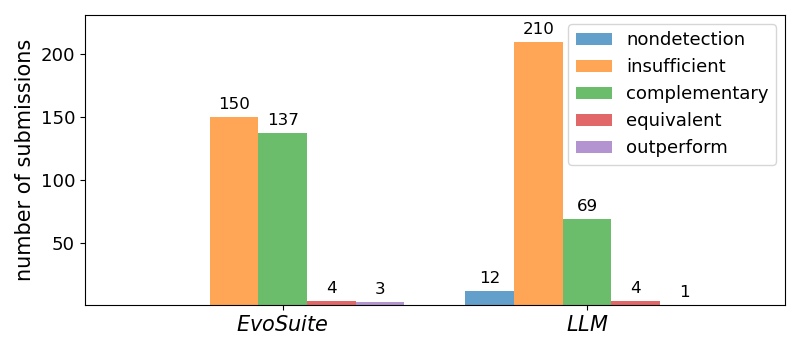
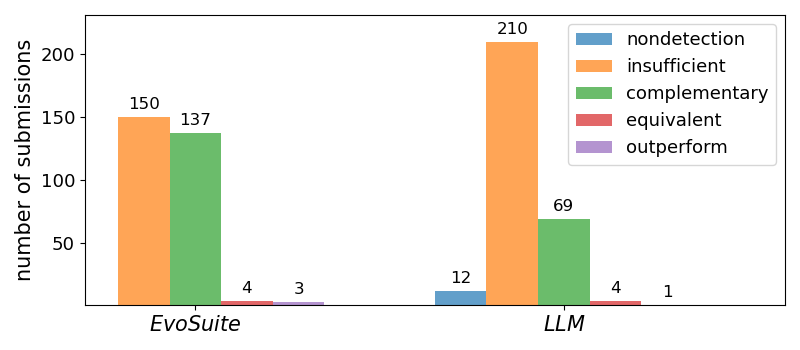
RQ1 figure reduce blank space

Changed region(s): [[0.125, 0.2571, 0.5, 0.9429], [0.5312, 0.0571, 0.8438, 0.9429], [0.4688, 0.8, 0.5, 0.8286]]

diff --git a/src/evaluation/test_gen_results.py b/src/evaluation/test_gen_results.py
@@ -179,6 +179,8 @@ class TestGen:
 
     def statistical_measure(self):
         data_es = self.get_evosuite_results()
+        for data in data_es:
+            print(data)
         data_es_stdev = [statistics.stdev(v) for v in zip(*data_es)]
         print(data_es_stdev)
 
@@ -200,11 +202,12 @@ class TestGen:
             "outperform": [data_es_avg[3], data_llm[3]]
         }, index=["$EvoSuite$", "$LLM$"])
 
-        ax = data.plot(kind="bar", figsize=(8, 3.5), rot=0, alpha=0.7, width=0.8)
+        ax = data.plot(kind="bar", figsize=(8, 3.5), rot=0, alpha=0.7, width=0.7)
         y_max = max(data.max()) * 1.1
         ax.set_ylim(1, y_max)
 
         plt.ylabel("number of submissions", fontsize=15)
+        plt.xlim(-0.3, 1.6)
         plt.xticks(fontsize=15)
         plt.yticks(fontsize=13)
         plt.legend(fontsize=13)
